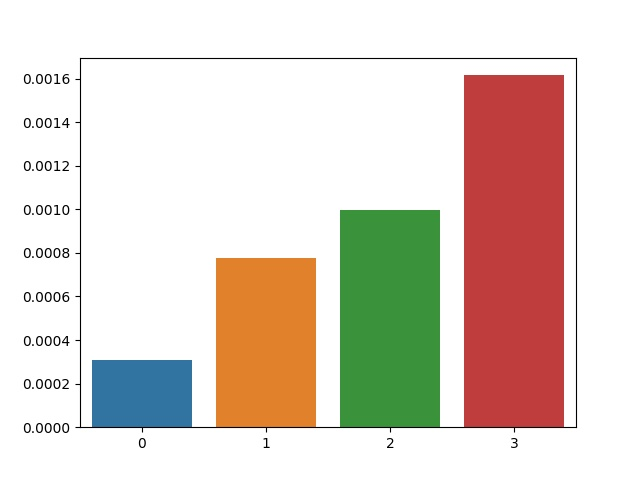
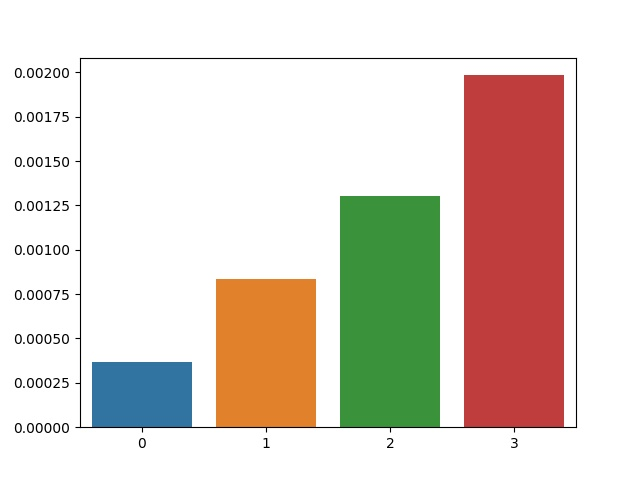
done intra-modal class variance

diff --git a/visualization.py b/visualization.py
@@ -3,7 +3,6 @@ from sklearn.manifold import TSNE
 class Visualization:
     ''' Class containing tensor visualization methods
     '''
-    # convert data, temporal_label, label -> data, labels
     def flatten_data(data, spatial_labels, temporal_labels):
         augmented = torch.zeros([data.size(0) * data.size(1), data.size(2)])
         labels = torch.zeros([data.size(0) * data.size(1)])
@@ -14,7 +13,6 @@ class Visualization:
                     labels[i * data.size(1) + j] = spatial_labels[i]
         return augmented, labels
 
-    # t-SNE of a data (samples, size) and labels (samples)
     def tsne(self, data, labels, savefile="tsne.jpg", n_comps=2, n_iters=250):
         assert data.size(0) == labels.size(0)
         t = TSNE(n_components=n_comps, n_iter=n_iters)
@@ -24,14 +22,17 @@ class Visualization:
         figure.savefig(savefile)
         print("Saved t-SNE visualization to: " + savefile)
     
-    # Visualize per class "spread"
-    def per_class_variance(data, labels, num_classes, savefile="var.jpg", amplitude=1):
+    def per_class_variance(data, labels, num_classes):
         assert data.size(0) == labels.size(0)
         variances = []
         # organize data into classes
         for sample in range(num_classes):
             variances.append(float(maths.variance(maths.variance(data[labels == sample]))))
+        return variances
+    
+    def visualize_variances(variances, savefile="var.jpg"):
         plot = sns.barplot(x=torch.range(0, len(variances) - 1, dtype=int).tolist(), y=variances)
         figure = plot.get_figure()
         figure.savefig(savefile)
         print("Saved Class Variance visualization to: " + savefile)
+

diff --git a/example.py b/example.py
@@ -13,4 +13,5 @@ temporal_labels[1, 3:9] = 1
 temporal_labels[2, 2:7] = 1
 spatial_labels = torch.Tensor([3, 1, 2])
 data, labels = Visualization.flatten_data(sample_audio, spatial_labels, temporal_labels)
-Visualization.per_class_variance(data, labels, 4)
+variances = Visualization.per_class_variance(data, labels, 4)
+Visualization.visualize_variances(variances)
